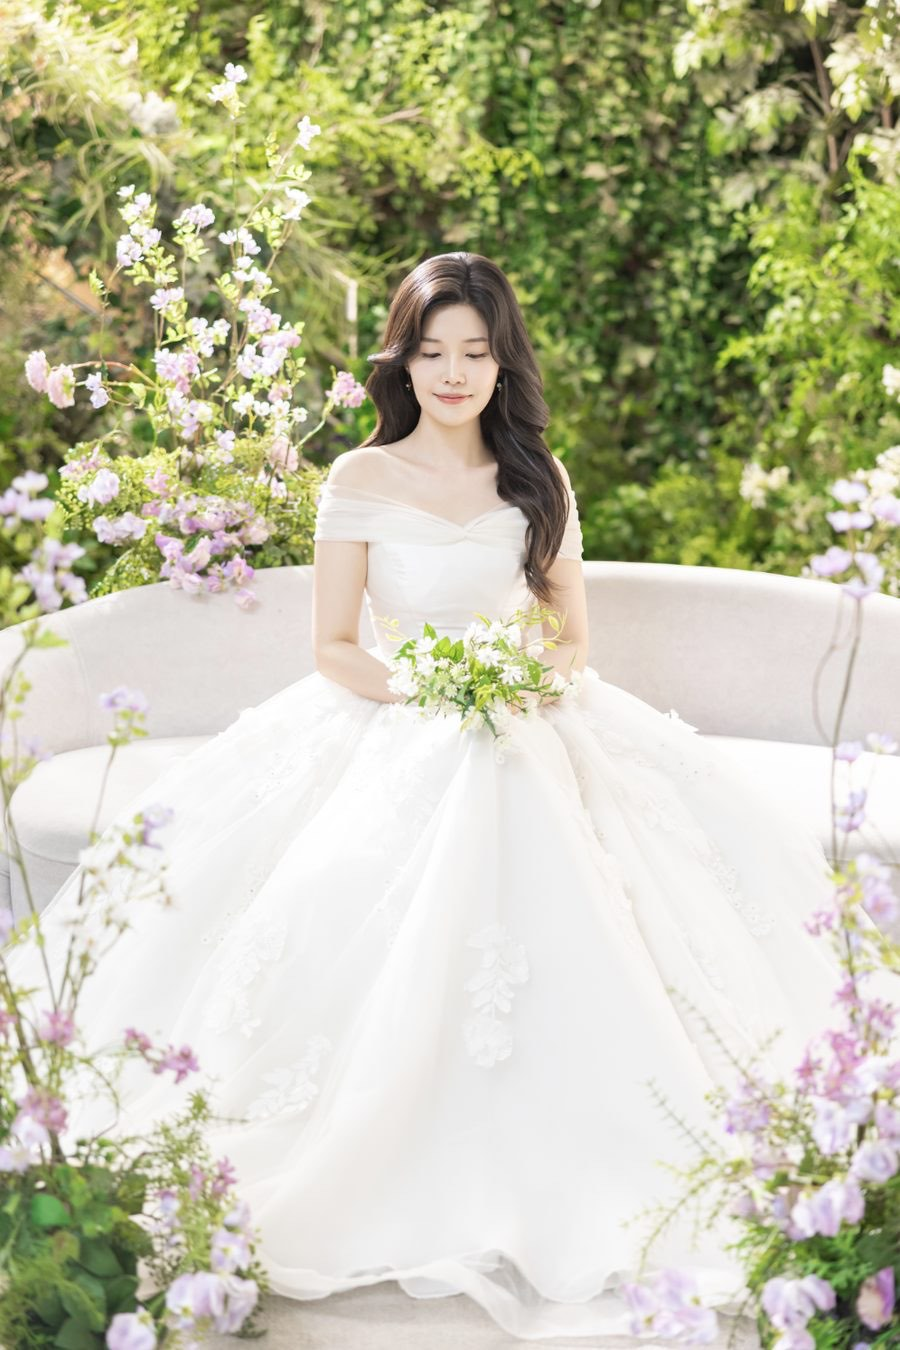
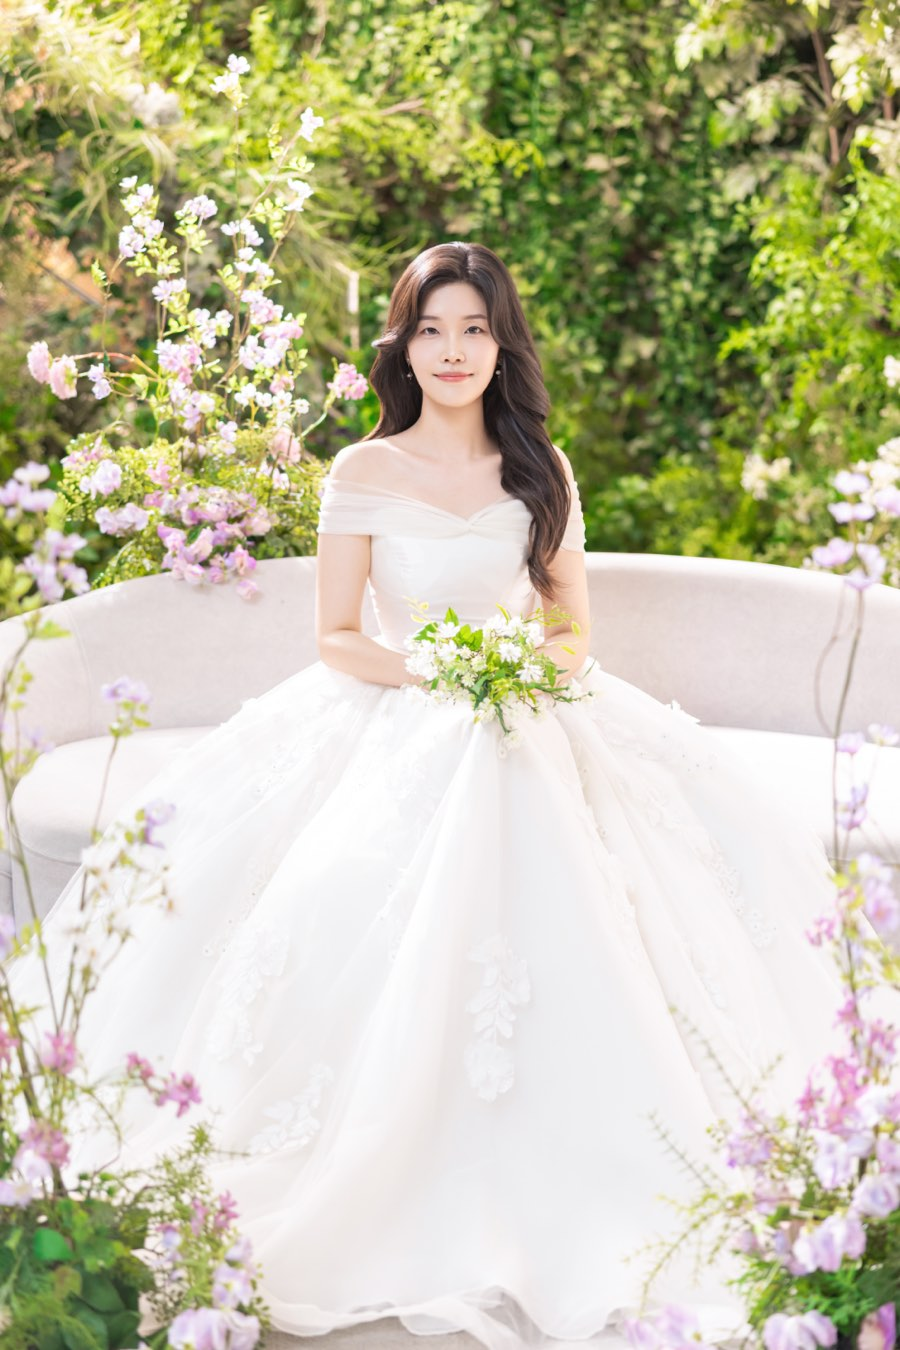
17, 18번 사진(가든 소파 신부)을 새 보정본으로 교체
같은 가든 소파 컷의 더 깨끗한 보정본입니다. 17번은 정면, 18번은 시선 아래.
994x1492 / 990x1492 (0.6662 / 0.6635) -> 둘 다 900x1350 으로 잘라
나머지와 같은 2:3 (0.66667) 에 맞췄습니다.

둘 다 원본이 2:3 보다 좁아 높이만 1px / 7px 깎였고, 가로는 전폭이라
좌우 이동 없이 얼굴 기준으로 세로 위치만 잡았습니다.

파일명이 그대로라 캐시 버전을 ?v=7 -> ?v=8 로 올렸습니다.

확인: 22장 비율 전부 0.66667(+가로 1장), 썸네일<->원본 22쌍 픽셀 대조
전부 일치, 캐시 없는 프로필에서 로드 실패 0건 / 버전 누락 0건,
17번 탭 -> g17.jpg "17 / 22", 다음 -> g18.jpg "18 / 22".

Assisted-by: Claude Code (Opus 5)

diff --git a/index.html b/index.html
@@ -10,7 +10,7 @@
 <meta property="og:title" content="이수영 ♥ 이정은 결혼합니다">
 <meta property="og:description" content="2026년 12월 12일 토요일 오후 4시, 세인트메리엘 1층 메리엘홀">
 <meta property="og:url" content="https://suyoung-lee.github.io/wedding/">
-<meta property="og:image" content="https://suyoung-lee.github.io/wedding/assets/og.jpg?v=7">
+<meta property="og:image" content="https://suyoung-lee.github.io/wedding/assets/og.jpg?v=8">
 <meta name="description" content="2026년 12월 12일 토요일 오후 4시, 세인트메리엘 1층 메리엘홀">
 <meta name="theme-color" content="#fbfaf7">
 
@@ -283,7 +283,7 @@
   <!-- ══════════ 표지 ══════════ -->
   <header class="cover">
     <div class="photo noSave">
-      <img src="assets/cover.jpg?v=7" alt="신랑 이수영, 신부 이정은" draggable="false">
+      <img src="assets/cover.jpg?v=8" alt="신랑 이수영, 신부 이정은" draggable="false">
     </div>
     <div class="fade"></div>
     <div class="frame"></div>
@@ -354,28 +354,28 @@
   <section>
     <p class="label">Gallery</p>
     <div class="grid collapsed noSave" id="grid">
-      <button class="ph wide" type="button" data-full="assets/g01.jpg?v=7" aria-label="웨딩 사진 1번, 크게 보기"><img src="assets/wide.jpg?v=7" alt="" loading="lazy"></button>
-      <button class="ph" type="button" data-full="assets/g02.jpg?v=7" aria-label="웨딩 사진 2번, 크게 보기"><img src="assets/t02.jpg?v=7" alt="" loading="lazy"></button>
-      <button class="ph" type="button" data-full="assets/g03.jpg?v=7" aria-label="웨딩 사진 3번, 크게 보기"><img src="assets/t03.jpg?v=7" alt="" loading="lazy"></button>
-      <button class="ph" type="button" data-full="assets/g04.jpg?v=7" aria-label="웨딩 사진 4번, 크게 보기"><img src="assets/t04.jpg?v=7" alt="" loading="lazy"></button>
-      <button class="ph" type="button" data-full="assets/g05.jpg?v=7" aria-label="웨딩 사진 5번, 크게 보기"><img src="assets/t05.jpg?v=7" alt="" loading="lazy"></button>
-      <button class="ph" type="button" data-full="assets/g06.jpg?v=7" aria-label="웨딩 사진 6번, 크게 보기"><img src="assets/t06.jpg?v=7" alt="" loading="lazy"></button>
-      <button class="ph" type="button" data-full="assets/g07.jpg?v=7" aria-label="웨딩 사진 7번, 크게 보기"><img src="assets/t07.jpg?v=7" alt="" loading="lazy"></button>
-      <button class="ph" type="button" data-full="assets/g08.jpg?v=7" aria-label="웨딩 사진 8번, 크게 보기"><img src="assets/t08.jpg?v=7" alt="" loading="lazy"></button>
-      <button class="ph" type="button" data-full="assets/g09.jpg?v=7" aria-label="웨딩 사진 9번, 크게 보기"><img src="assets/t09.jpg?v=7" alt="" loading="lazy"></button>
-      <button class="ph" type="button" data-full="assets/g10.jpg?v=7" aria-label="웨딩 사진 10번, 크게 보기"><img src="assets/t10.jpg?v=7" alt="" loading="lazy"></button>
-      <button class="ph" type="button" data-full="assets/g11.jpg?v=7" aria-label="웨딩 사진 11번, 크게 보기"><img src="assets/t11.jpg?v=7" alt="" loading="lazy"></button>
-      <button class="ph" type="button" data-full="assets/g12.jpg?v=7" aria-label="웨딩 사진 12번, 크게 보기"><img src="assets/t12.jpg?v=7" alt="" loading="lazy"></button>
-      <button class="ph" type="button" data-full="assets/g13.jpg?v=7" aria-label="웨딩 사진 13번, 크게 보기"><img src="assets/t13.jpg?v=7" alt="" loading="lazy"></button>
-      <button class="ph" type="button" data-full="assets/g14.jpg?v=7" aria-label="웨딩 사진 14번, 크게 보기"><img src="assets/t14.jpg?v=7" alt="" loading="lazy"></button>
-      <button class="ph" type="button" data-full="assets/g15.jpg?v=7" aria-label="웨딩 사진 15번, 크게 보기"><img src="assets/t15.jpg?v=7" alt="" loading="lazy"></button>
-      <button class="ph" type="button" data-full="assets/g16.jpg?v=7" aria-label="웨딩 사진 16번, 크게 보기"><img src="assets/t16.jpg?v=7" alt="" loading="lazy"></button>
-      <button class="ph" type="button" data-full="assets/g17.jpg?v=7" aria-label="웨딩 사진 17번, 크게 보기"><img src="assets/t17.jpg?v=7" alt="" loading="lazy"></button>
-      <button class="ph" type="button" data-full="assets/g18.jpg?v=7" aria-label="웨딩 사진 18번, 크게 보기"><img src="assets/t18.jpg?v=7" alt="" loading="lazy"></button>
-      <button class="ph" type="button" data-full="assets/g19.jpg?v=7" aria-label="웨딩 사진 19번, 크게 보기"><img src="assets/t19.jpg?v=7" alt="" loading="lazy"></button>
-      <button class="ph" type="button" data-full="assets/g20.jpg?v=7" aria-label="웨딩 사진 20번, 크게 보기"><img src="assets/t20.jpg?v=7" alt="" loading="lazy"></button>
-      <button class="ph" type="button" data-full="assets/g21.jpg?v=7" aria-label="웨딩 사진 21번, 크게 보기"><img src="assets/t21.jpg?v=7" alt="" loading="lazy"></button>
-      <button class="ph" type="button" data-full="assets/g22.jpg?v=7" aria-label="웨딩 사진 22번, 크게 보기"><img src="assets/t22.jpg?v=7" alt="" loading="lazy"></button>
+      <button class="ph wide" type="button" data-full="assets/g01.jpg?v=8" aria-label="웨딩 사진 1번, 크게 보기"><img src="assets/wide.jpg?v=8" alt="" loading="lazy"></button>
+      <button class="ph" type="button" data-full="assets/g02.jpg?v=8" aria-label="웨딩 사진 2번, 크게 보기"><img src="assets/t02.jpg?v=8" alt="" loading="lazy"></button>
+      <button class="ph" type="button" data-full="assets/g03.jpg?v=8" aria-label="웨딩 사진 3번, 크게 보기"><img src="assets/t03.jpg?v=8" alt="" loading="lazy"></button>
+      <button class="ph" type="button" data-full="assets/g04.jpg?v=8" aria-label="웨딩 사진 4번, 크게 보기"><img src="assets/t04.jpg?v=8" alt="" loading="lazy"></button>
+      <button class="ph" type="button" data-full="assets/g05.jpg?v=8" aria-label="웨딩 사진 5번, 크게 보기"><img src="assets/t05.jpg?v=8" alt="" loading="lazy"></button>
+      <button class="ph" type="button" data-full="assets/g06.jpg?v=8" aria-label="웨딩 사진 6번, 크게 보기"><img src="assets/t06.jpg?v=8" alt="" loading="lazy"></button>
+      <button class="ph" type="button" data-full="assets/g07.jpg?v=8" aria-label="웨딩 사진 7번, 크게 보기"><img src="assets/t07.jpg?v=8" alt="" loading="lazy"></button>
+      <button class="ph" type="button" data-full="assets/g08.jpg?v=8" aria-label="웨딩 사진 8번, 크게 보기"><img src="assets/t08.jpg?v=8" alt="" loading="lazy"></button>
+      <button class="ph" type="button" data-full="assets/g09.jpg?v=8" aria-label="웨딩 사진 9번, 크게 보기"><img src="assets/t09.jpg?v=8" alt="" loading="lazy"></button>
+      <button class="ph" type="button" data-full="assets/g10.jpg?v=8" aria-label="웨딩 사진 10번, 크게 보기"><img src="assets/t10.jpg?v=8" alt="" loading="lazy"></button>
+      <button class="ph" type="button" data-full="assets/g11.jpg?v=8" aria-label="웨딩 사진 11번, 크게 보기"><img src="assets/t11.jpg?v=8" alt="" loading="lazy"></button>
+      <button class="ph" type="button" data-full="assets/g12.jpg?v=8" aria-label="웨딩 사진 12번, 크게 보기"><img src="assets/t12.jpg?v=8" alt="" loading="lazy"></button>
+      <button class="ph" type="button" data-full="assets/g13.jpg?v=8" aria-label="웨딩 사진 13번, 크게 보기"><img src="assets/t13.jpg?v=8" alt="" loading="lazy"></button>
+      <button class="ph" type="button" data-full="assets/g14.jpg?v=8" aria-label="웨딩 사진 14번, 크게 보기"><img src="assets/t14.jpg?v=8" alt="" loading="lazy"></button>
+      <button class="ph" type="button" data-full="assets/g15.jpg?v=8" aria-label="웨딩 사진 15번, 크게 보기"><img src="assets/t15.jpg?v=8" alt="" loading="lazy"></button>
+      <button class="ph" type="button" data-full="assets/g16.jpg?v=8" aria-label="웨딩 사진 16번, 크게 보기"><img src="assets/t16.jpg?v=8" alt="" loading="lazy"></button>
+      <button class="ph" type="button" data-full="assets/g17.jpg?v=8" aria-label="웨딩 사진 17번, 크게 보기"><img src="assets/t17.jpg?v=8" alt="" loading="lazy"></button>
+      <button class="ph" type="button" data-full="assets/g18.jpg?v=8" aria-label="웨딩 사진 18번, 크게 보기"><img src="assets/t18.jpg?v=8" alt="" loading="lazy"></button>
+      <button class="ph" type="button" data-full="assets/g19.jpg?v=8" aria-label="웨딩 사진 19번, 크게 보기"><img src="assets/t19.jpg?v=8" alt="" loading="lazy"></button>
+      <button class="ph" type="button" data-full="assets/g20.jpg?v=8" aria-label="웨딩 사진 20번, 크게 보기"><img src="assets/t20.jpg?v=8" alt="" loading="lazy"></button>
+      <button class="ph" type="button" data-full="assets/g21.jpg?v=8" aria-label="웨딩 사진 21번, 크게 보기"><img src="assets/t21.jpg?v=8" alt="" loading="lazy"></button>
+      <button class="ph" type="button" data-full="assets/g22.jpg?v=8" aria-label="웨딩 사진 22번, 크게 보기"><img src="assets/t22.jpg?v=8" alt="" loading="lazy"></button>
     </div>
     <button class="more" type="button" id="more">사진 더보기<span class="chev" aria-hidden="true"></span></button>
   </section>
@@ -388,8 +388,8 @@
     <h2>세인트메리엘</h2>
     <p class="sub">1층 메리엘홀</p>
 
-    <a class="mapWrap noSave" href="assets/map-full.png?v=7" target="_blank" rel="noopener">
-      <img src="assets/map.png?v=7" alt="세인트메리엘 약도" loading="lazy" draggable="false">
+    <a class="mapWrap noSave" href="assets/map-full.png?v=8" target="_blank" rel="noopener">
+      <img src="assets/map.png?v=8" alt="세인트메리엘 약도" loading="lazy" draggable="false">
     </a>
     <p class="mapHint">약도를 누르면 크게 볼 수 있습니다</p>
 

diff --git a/build_assets.py b/build_assets.py
@@ -18,8 +18,8 @@ OUT = "assets"
 # index.html 의 이미지 URL 뒤 ?v=N 캐시 버전. 파일명을 그대로 두고 사진 내용만
 # 바꾸면 이미 청첩장을 열어본 브라우저가 캐시된 옛 사진을 계속 보여줍니다
 # (썸네일만 바뀌고 뷰어는 옛 사진이 뜨는 식). 사진을 갈아끼울 때마다 올리세요.
-#   sed -i '' 's/?v=[0-9]*/?v=8/g' index.html
-ASSET_V = 7
+#   sed -i '' 's/?v=[0-9]*/?v=9/g' index.html
+ASSET_V = 8
 os.makedirs(OUT, exist_ok=True)
 
 A = lambda n: os.path.join(SRC, f"KakaoTalk_20260909_203020487{n}.png")
@@ -54,8 +54,8 @@ ORDER = [
     (A("_07"), "가든 - 두 사람"),
     (A("_01"), "가든 - 두 사람"),
     (A("_06"), "가든 - 잎사귀 배경"),
-    (A("_10"), "가든 - 신부"),
-    (N("A_가든소파신부"), "가든 - 소파 신부"),
+    (N("G_가든소파신부_정면"),     "가든 - 소파 신부"),
+    (N("H_가든소파신부_시선아래"), "가든 - 소파 신부"),
     (A("_08"), "가든 - 신부"),
     # 검정 배경 스튜디오 (맨 뒤)
     (A("_16"), "검정 배경 스튜디오 - 신부 정면"),
@@ -87,8 +87,8 @@ FACE = [
     (0.511, 0.180),   # 14 가든 두 사람
     (0.569, 0.187),   # 15 가든 두 사람
     (0.514, 0.513),   # 16 가든 잎사귀
-    (0.504, 0.280),   # 17 가든 신부
-    (0.506, 0.264),   # 18 가든 소파 신부
+    (0.504, 0.263),   # 17 가든 소파 신부 (정면)
+    (0.505, 0.274),   # 18 가든 소파 신부 (시선 아래)
     (0.559, 0.192),   # 19 가든 신부
     (0.508, 0.210),   # 20 검정 신부
     (0.435, 0.136),   # 21 검정 신랑
